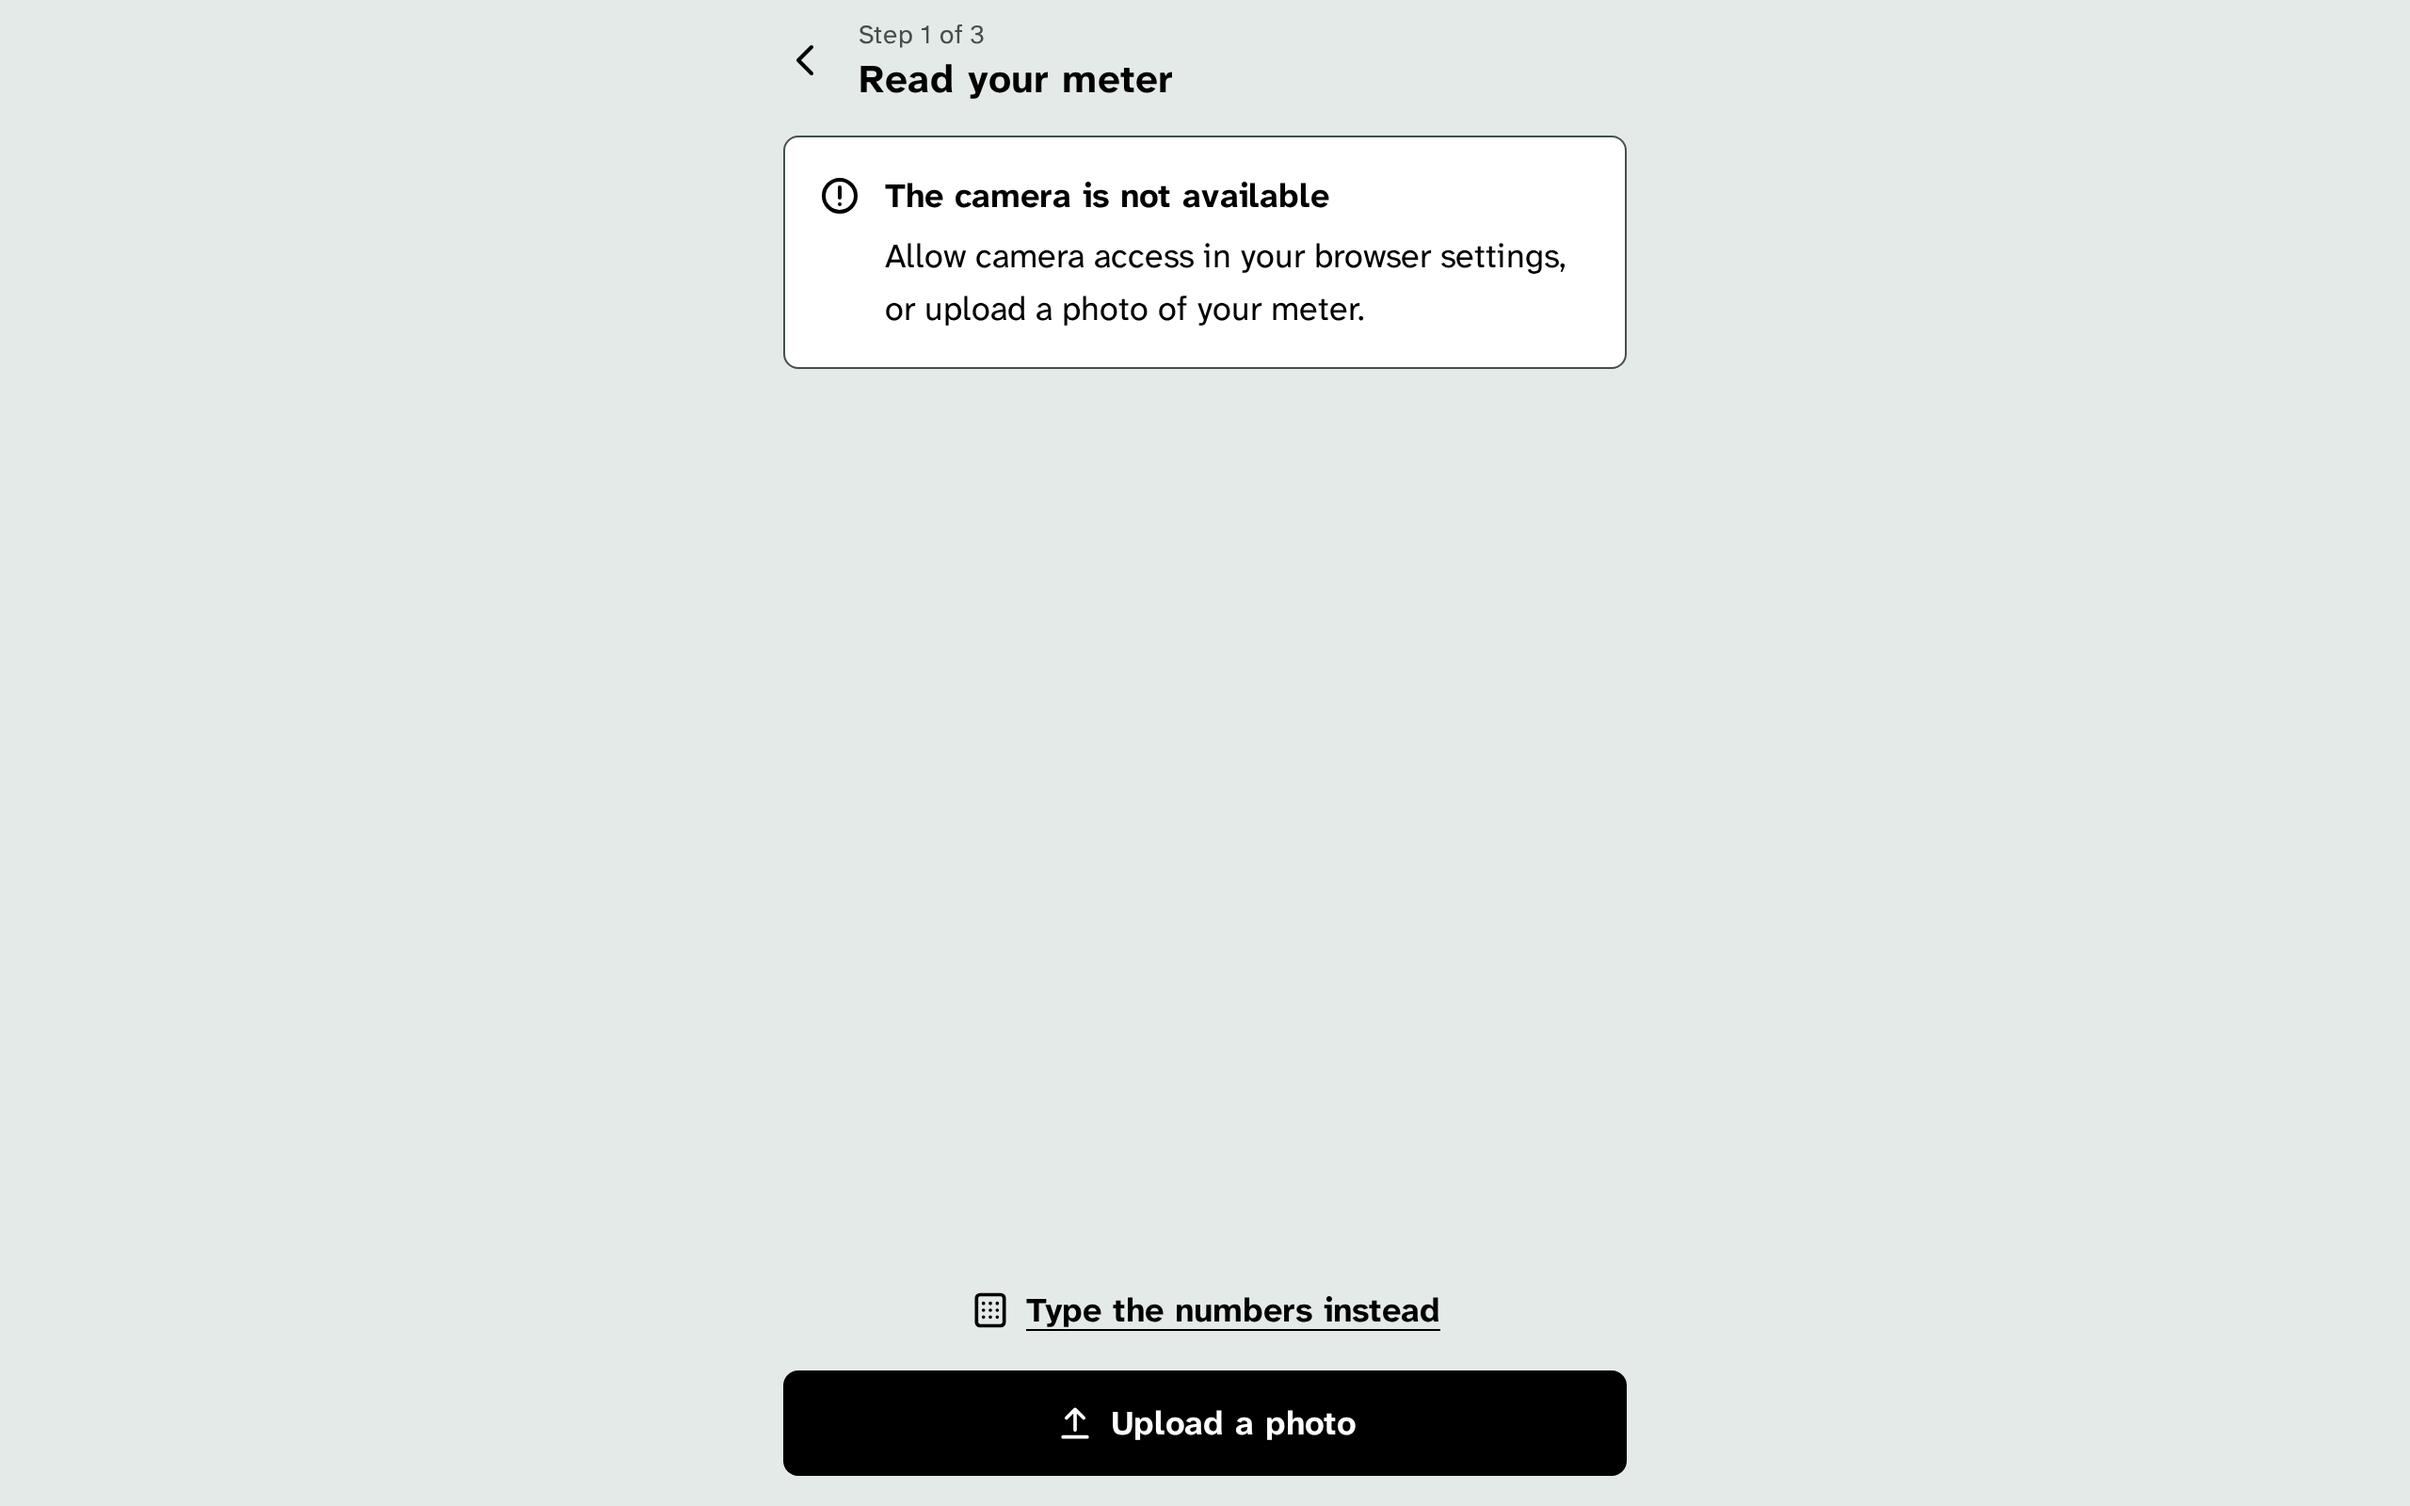
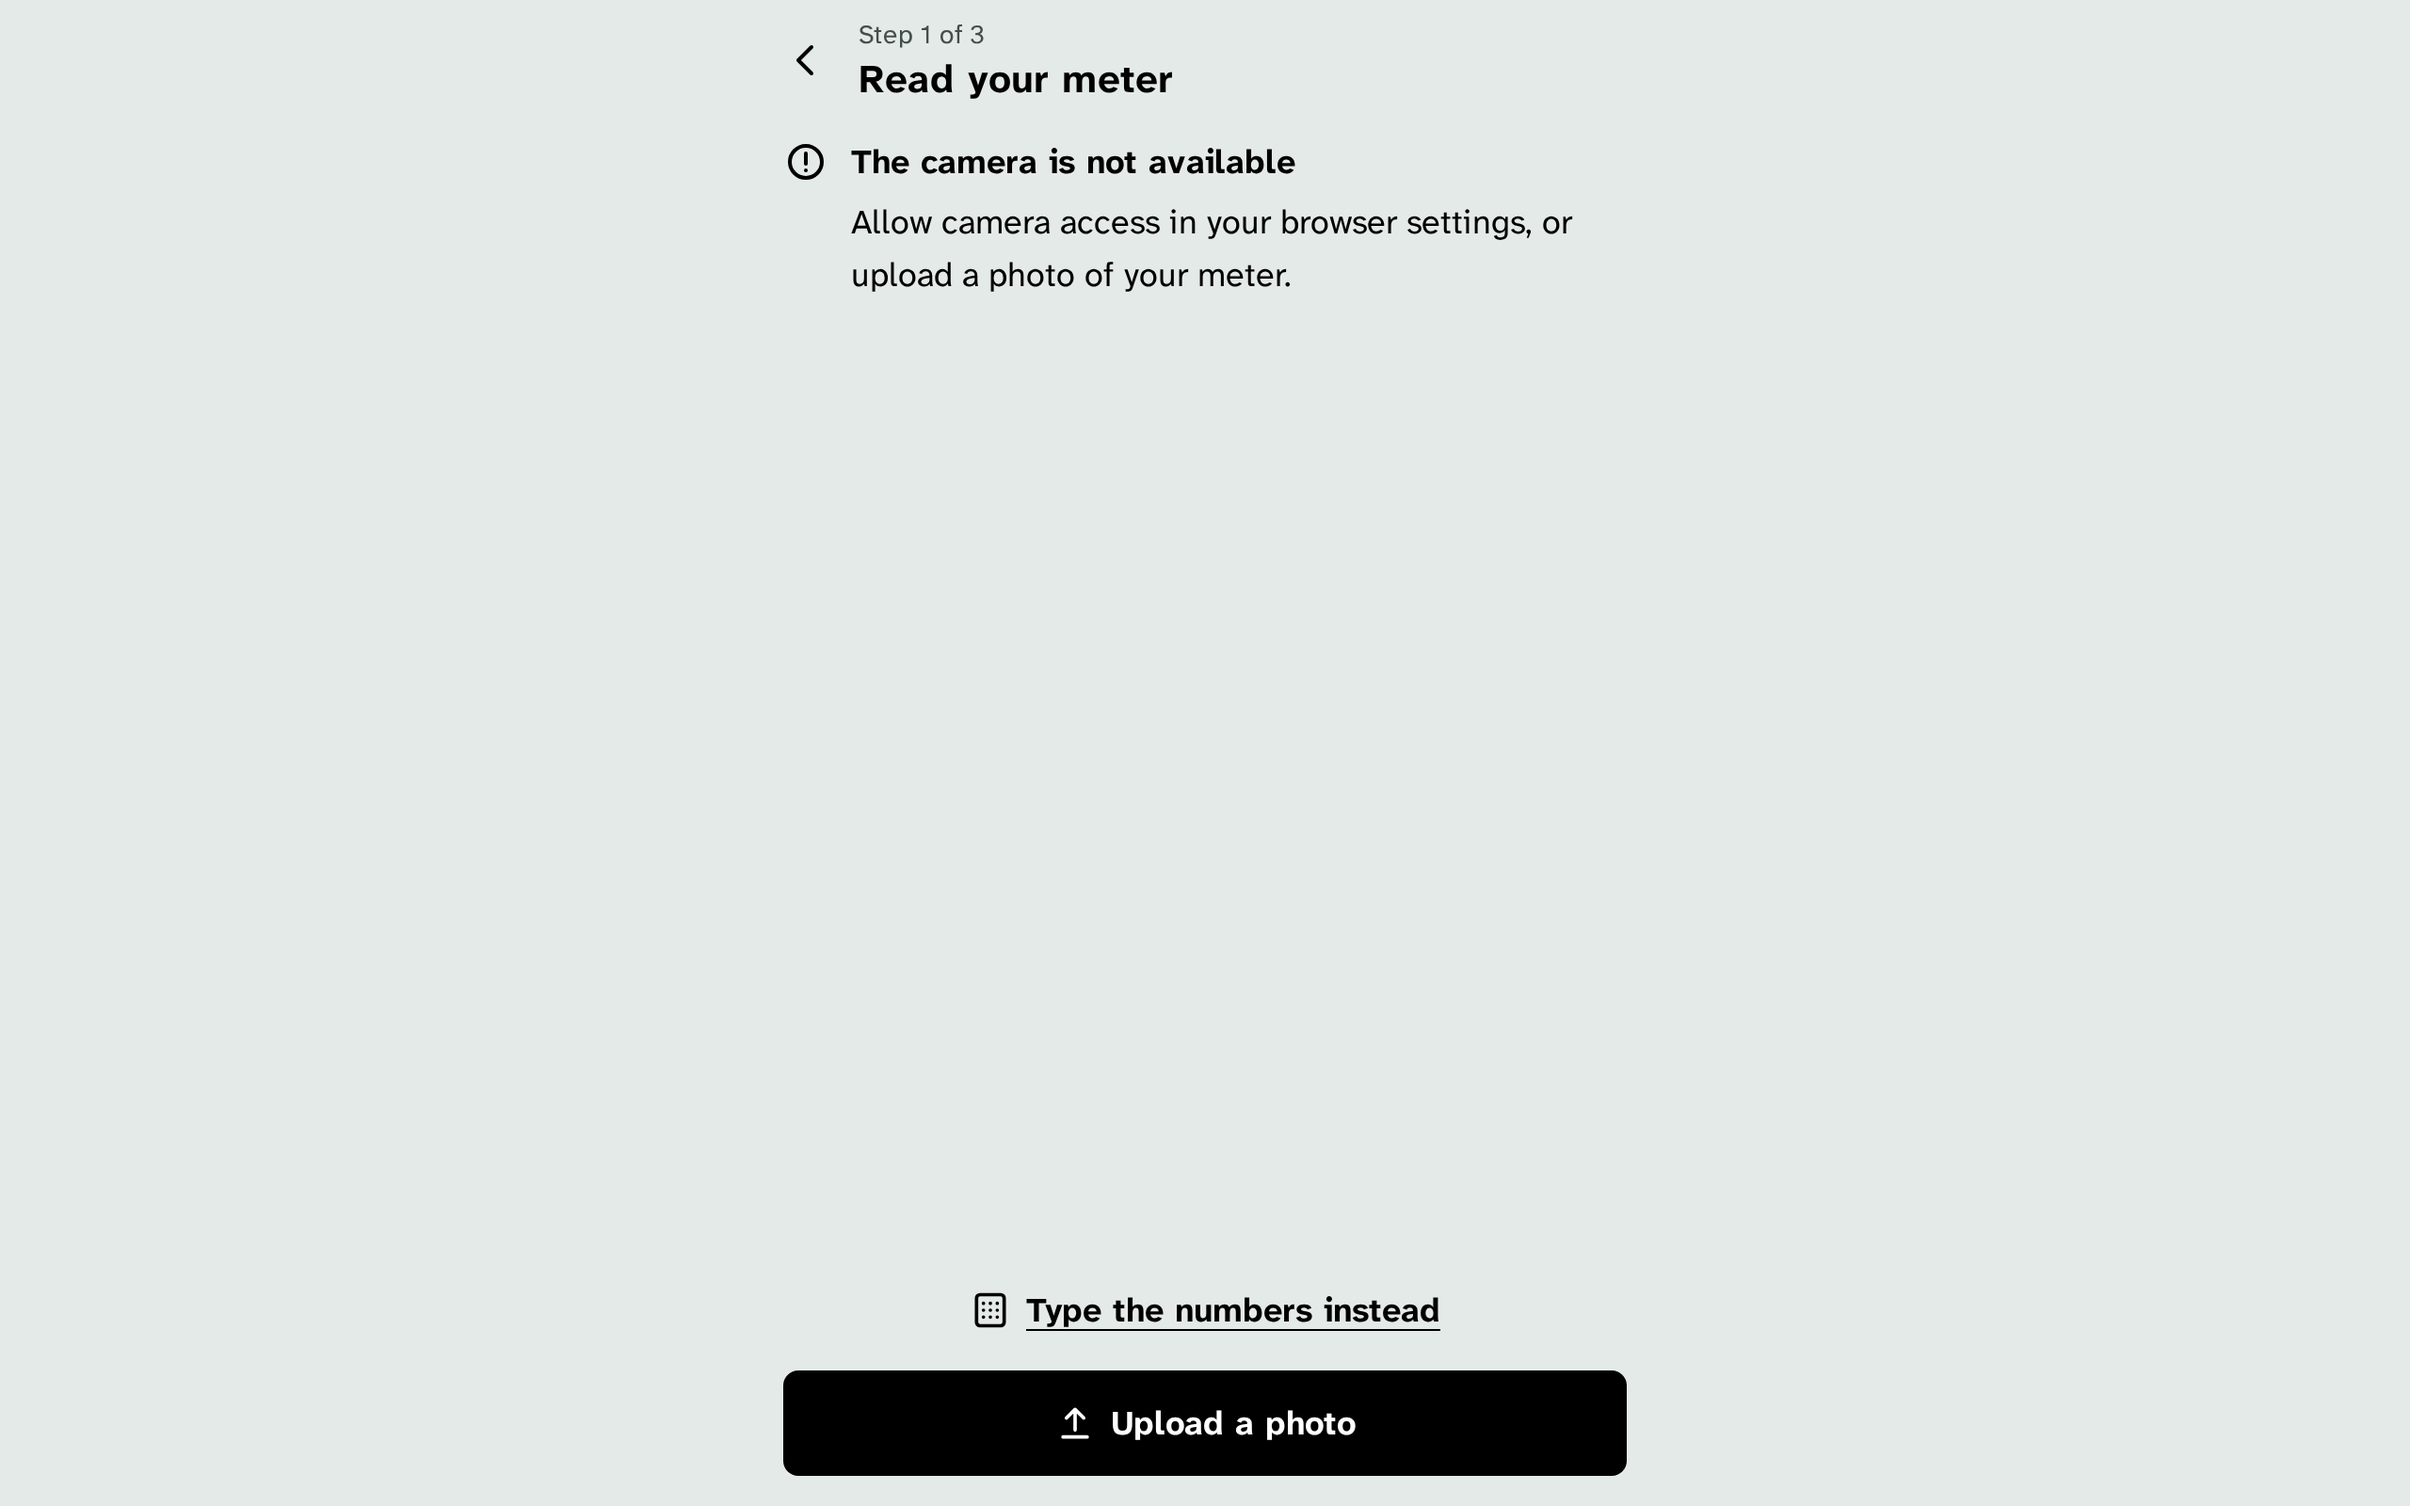
fix(design): plain zero in all running text, lighter advice notices
The body now uses the plain-zero stack, so numbers inside translated
sentences get the plain zero too; IDs keep the slashed zero with .code.
Advice notices lose their frame so a suggestion no longer looks like an
error. Screen no longer steals focus from a field that took it on mount.
Camera screenshots refreshed, plus the unreadable-photo state.

Changed region(s): [[0.3125, 0.0625, 0.6875, 0.25]]

diff --git a/frontend/src/components/Screen/Screen.jsx b/frontend/src/components/Screen/Screen.jsx
@@ -32,10 +32,13 @@ function Screen({ title, step, back, action, nav = false, children }) {
   const { t } = useI18n();
   const headingRef = useRef(null);
 
-  // Move focus to the new screen's title so screen readers announce it.
+  // Move focus to the new screen's title so screen readers announce it,
+  // unless something on the screen already took focus (such as the meter
+  // counter opening for typing). Child effects run first, so check.
   useEffect(() => {
     document.title = `${title} | ${t('app.name')}`;
-    headingRef.current?.focus({ preventScroll: true });
+    const active = document.activeElement;
+    if (!active || active === document.body) headingRef.current?.focus({ preventScroll: true });
   }, [title, t]);
 
   const goBack = () => (typeof back === 'string' ? navigate(back) : navigate(-1));

diff --git a/frontend/src/components/Notice/Notice.module.css b/frontend/src/components/Notice/Notice.module.css
@@ -27,8 +27,15 @@
 .actions {
   display: flex;
   flex-wrap: wrap;
+  justify-content: flex-start;
+  align-items: center;
   gap: var(--space-2) var(--space-4);
   margin-top: var(--space-2);
+}
+
+/* A text button's label lines up with the text above it. */
+.actions > [data-variant='text']:first-child {
+  margin-left: calc(-1 * var(--space-2));
 }
 
 /* Held: brass, calm. Brass text is only used on Paper (7.1:1). */
@@ -41,11 +48,11 @@
   color: var(--brass);
 }
 
-/* Advice: lighter edge so it reads as a suggestion, not a stop. */
+/* Advice reads as a suggestion, not a stop: no frame, just icon and words. */
 .info {
-  border-color: var(--slate);
-  border-width: 1px;
-  padding: calc(var(--space-4) + 1px);
+  border: 0;
+  padding: 0;
+  background: none;
 }
 
 .done {

diff --git a/frontend/src/components/Button/Button.jsx b/frontend/src/components/Button/Button.jsx
@@ -43,9 +43,10 @@ function Button({
   disabled,
   ...rest
 }) {
+  const kind = VARIANTS[variant] || 'primary';
   const classes = [
     styles.button,
-    styles[VARIANTS[variant] || 'primary'],
+    styles[kind],
     fullWidth ? styles.fullWidth : '',
     className || '',
   ]
@@ -61,7 +62,7 @@ function Button({
 
   if (href) {
     return (
-      <a className={classes} href={href} {...rest}>
+      <a className={classes} href={href} data-variant={kind} {...rest}>
         {content}
       </a>
     );
@@ -71,6 +72,7 @@ function Button({
     <button
       type={type}
       className={classes}
+      data-variant={kind}
       disabled={disabled || loading}
       aria-busy={loading || undefined}
       {...rest}

diff --git a/frontend/src/styles/base.css b/frontend/src/styles/base.css
@@ -22,7 +22,8 @@ body {
   min-height: 100vh;
   background: var(--color-bg);
   color: var(--color-text);
-  font-family: var(--font-text);
+  /* Plain zero for every number in text; IDs opt back in with .code. */
+  font-family: var(--font-numbers);
   font-size: var(--size-body);
   line-height: var(--leading-body);
   font-weight: var(--weight-regular);
@@ -98,9 +99,9 @@ a {
   color: var(--color-text-secondary);
 }
 
-/* Amounts, volumes, readings, dates: plain zero, digits never shift. */
+/* Amounts, volumes, readings, dates in lists and tables: digits never shift.
+   (The plain zero comes from the body font.) */
 .num {
-  font-family: var(--font-numbers);
   font-variant-numeric: tabular-nums;
 }
 

diff --git a/frontend/src/components/Button/Button.module.css b/frontend/src/components/Button/Button.module.css
@@ -7,7 +7,7 @@
   padding: var(--space-2) var(--space-5);
   border: 2px solid transparent;
   border-radius: var(--radius-button);
-  font-family: var(--font-text);
+  font-family: var(--font-numbers);
   font-size: var(--size-body);
   line-height: var(--leading-body);
   font-weight: var(--weight-bold);

diff --git a/docs/design/DESIGN_PLAN.md b/docs/design/DESIGN_PLAN.md
@@ -118,7 +118,9 @@ font has no alternate. Numbers (amounts, volumes, readings, dates) use a plain z
 mix letters and numbers (account and meter IDs) keep the slashed zero so 0 and O stay distinct.
 The plain zero comes from "Atkinson Next Plain Zero", a derived font of under 800 bytes per
 weight that holds only the zero (built by `frontend/scripts/fonts/plain_zero.py`, OFL 1.1),
-layered over the main font with `unicode-range`. In CSS: `.num` for numbers, `.code` for IDs.
+layered over the main font with `unicode-range`. In CSS the body uses it, so every number in
+running text gets the plain zero; IDs use `.code` to keep the slashed zero, and `.num` adds
+tabular figures for aligned numbers.
 Comparison: `docs/design/screenshots/00-zero-options.png`.
 
 **Scale** (Bringhurst's classical scale, px):
